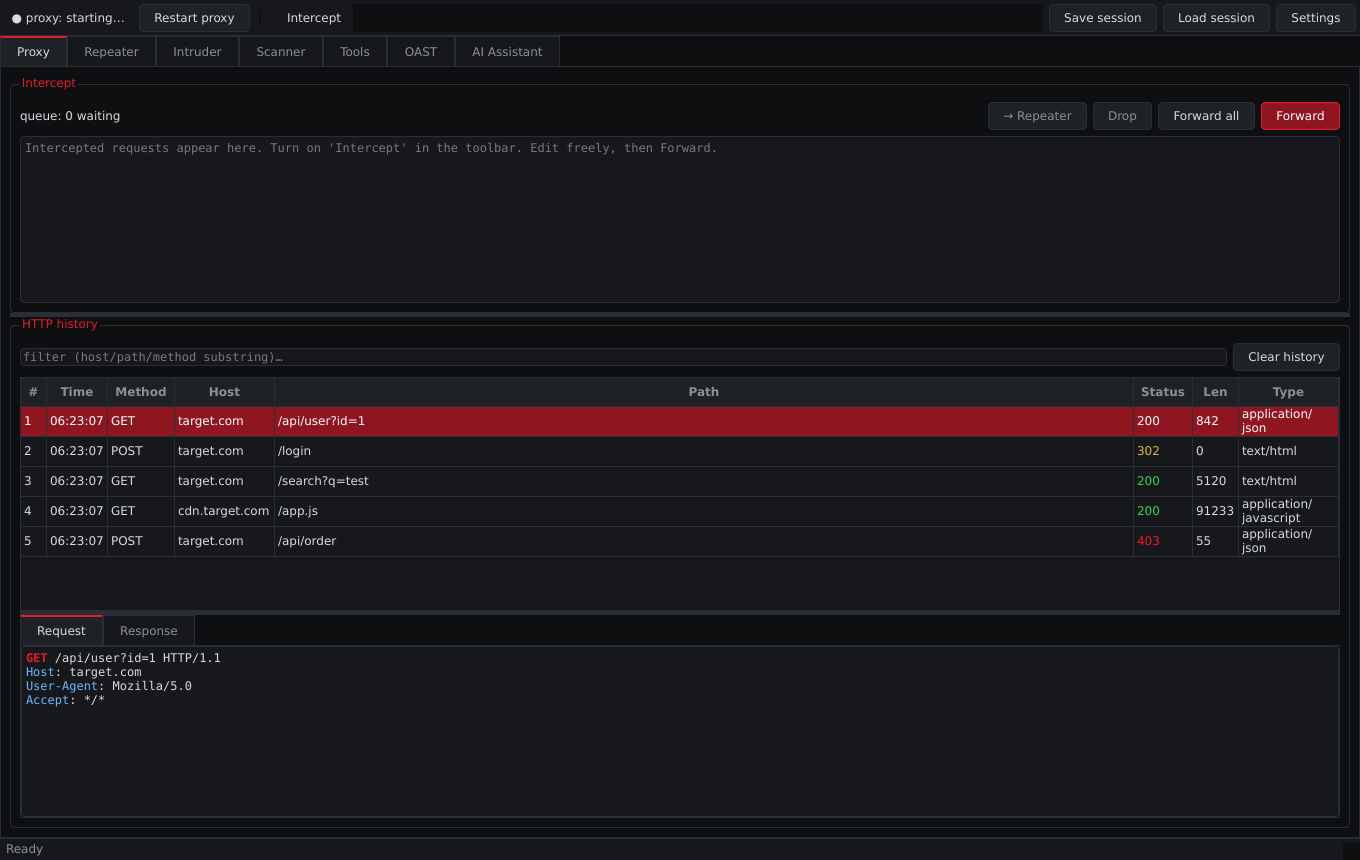
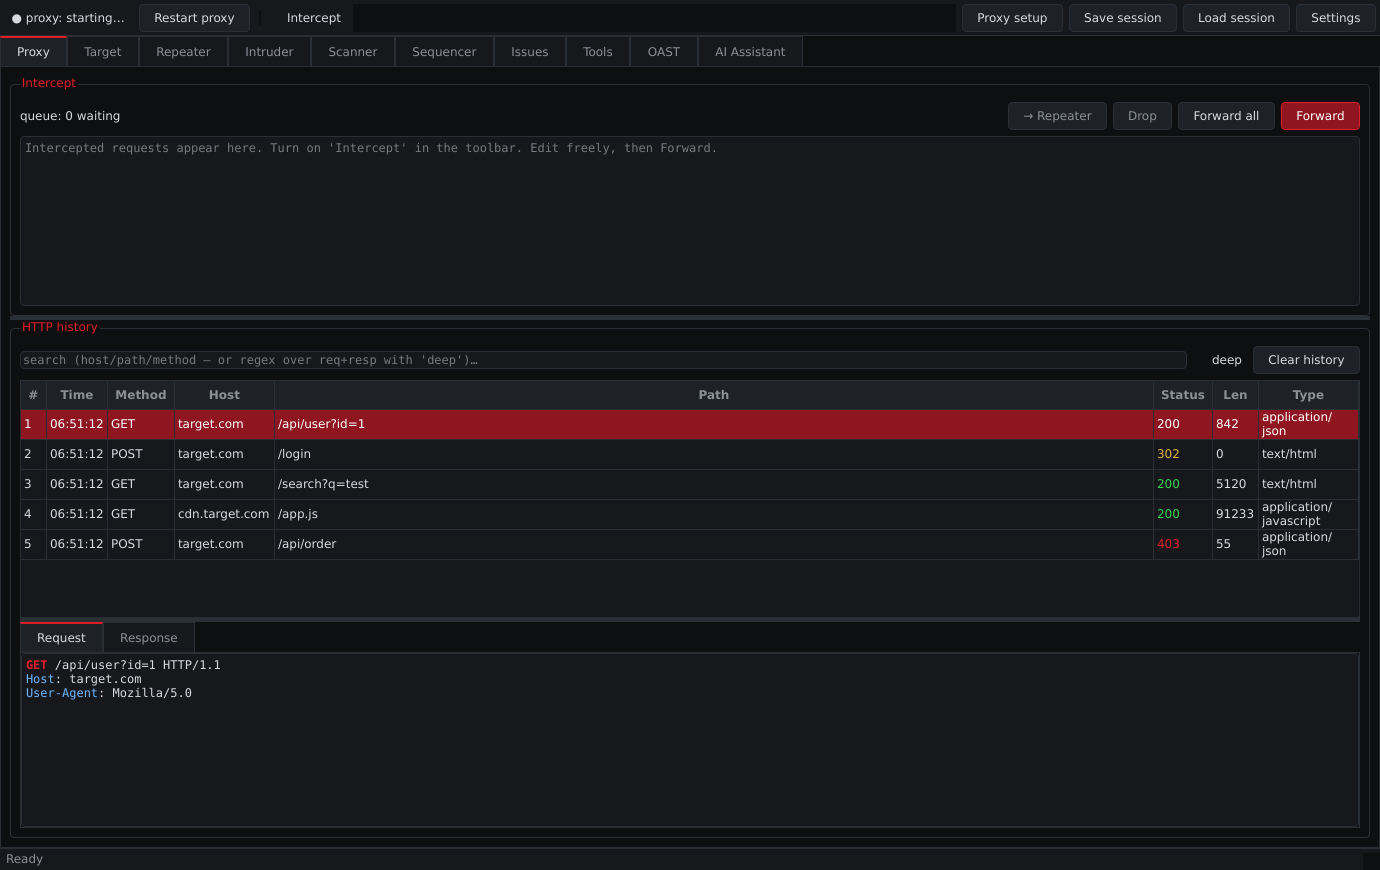
Add CSRF PoC generator, pretty-print, deep regex search; refresh screenshots
- Tools: CSRF PoC generator (auto-submitting form or fetch PoC) + pretty JSON/XML
- HttpEditor: right-click "Pretty-print body" on any viewer
- History: "deep" regex search across full request+response bodies
- History context menu: Send to Sequencer / Generate CSRF PoC
- README: updated screenshots (now showing Target and Issues)

Claude-Session: https://claude.ai/code/session_018vkGKhNKzSodMfcoTfCRvm

diff --git a/r3dproxy/gui/proxy_tab.py b/r3dproxy/gui/proxy_tab.py
@@ -6,7 +6,7 @@ from PySide6.QtGui import QColor, QAction
 from PySide6.QtWidgets import (QWidget, QVBoxLayout, QHBoxLayout, QSplitter,
                                QPushButton, QLabel, QTableWidget, QTableWidgetItem,
                                QHeaderView, QLineEdit, QGroupBox, QMenu, QAbstractItemView,
-                               QTabWidget)
+                               QTabWidget, QCheckBox)
 
 from . import theme
 from .editor import HttpEditor
@@ -120,11 +120,15 @@ class ProxyTab(QWidget):
 
         bar = QHBoxLayout()
         self.filter_edit = QLineEdit()
-        self.filter_edit.setPlaceholderText("filter (host/path/method substring)…")
-        self.filter_edit.textChanged.connect(self.apply_filter)
+        self.filter_edit.setPlaceholderText("search (host/path/method — or regex over req+resp with 'deep')…")
+        self.filter_edit.textChanged.connect(lambda: self.apply_filter())
+        self.deep_search = QCheckBox("deep")
+        self.deep_search.setToolTip("Regex search across full request + response bodies")
+        self.deep_search.toggled.connect(lambda: self.apply_filter())
         clear_btn = QPushButton("Clear history")
         clear_btn.clicked.connect(self.clear_history)
         bar.addWidget(self.filter_edit)
+        bar.addWidget(self.deep_search)
         bar.addWidget(clear_btn)
         v.addLayout(bar)
 
@@ -242,14 +246,29 @@ class ProxyTab(QWidget):
             self.req_view.set_text(rec.request_text)
             self.resp_view.set_text(rec.response_text)
 
-    def apply_filter(self, text):
-        text = (text or "").lower().strip()
+    def apply_filter(self, _=None):
+        import re
+        q = self.filter_edit.text().strip()
+        deep = self.deep_search.isChecked()
+        rx = None
+        if deep and q:
+            try:
+                rx = re.compile(q, re.I)
+            except re.error:
+                rx = None
         for fid, row in self.row_by_fid.items():
             rec = self.ctx.store.get(fid)
             if not rec:
                 continue
-            hay = f"{rec.method} {rec.host} {rec.url}".lower()
-            self.table.setRowHidden(row, bool(text) and text not in hay)
+            if not q:
+                hide = False
+            elif deep:
+                hay = f"{rec.method} {rec.url}\n{rec.request_text}\n{rec.response_text}"
+                hide = (rx.search(hay) is None) if rx else (q.lower() not in hay.lower())
+            else:
+                hay = f"{rec.method} {rec.host} {rec.url}".lower()
+                hide = q.lower() not in hay
+            self.table.setRowHidden(row, hide)
 
     def clear_history(self):
         self.table.setRowCount(0)
@@ -284,6 +303,7 @@ class ProxyTab(QWidget):
         a_scan = menu.addAction("Send to Scanner")
         a_seq = menu.addAction("Send to Sequencer")
         a_ai = menu.addAction("Send to AI Assistant")
+        a_csrf = menu.addAction("Generate CSRF PoC")
         menu.addSeparator()
         a_copyurl = menu.addAction("Copy URL")
         act = menu.exec(self.table.viewport().mapToGlobal(pos))
@@ -295,6 +315,8 @@ class ProxyTab(QWidget):
             self.main.send_to_scanner(rec)
         elif act == a_seq:
             self.main.send_to_sequencer(rec)
+        elif act == a_csrf:
+            self.main.send_to_csrf(rec)
         elif act == a_ai:
             self.main.send_to_ai(rec.request_text, rec.response_text)
         elif act == a_copyurl:

diff --git a/r3dproxy/gui/tools_tab.py b/r3dproxy/gui/tools_tab.py
@@ -79,6 +79,54 @@ class ComparerWidget(QWidget):
         self.result.setHtml(header + "<br>".join(html))
 
 
+class CSRFWidget(QWidget):
+    def __init__(self):
+        super().__init__()
+        v = QVBoxLayout(self)
+        v.addWidget(QLabel("Paste a request; set the full URL; generate an HTML CSRF PoC."))
+        from PySide6.QtWidgets import QLineEdit
+        self.url = QLineEdit(); self.url.setPlaceholderText("https://target.com/path  (full URL the request hits)")
+        v.addWidget(self.url)
+        split = QSplitter(Qt.Horizontal)
+        self.req = HttpEditor(read_only=False)
+        self.out = HttpEditor(read_only=True)
+        split.addWidget(self.req); split.addWidget(self.out)
+        v.addWidget(split, 1)
+        bar = QHBoxLayout()
+        gen = QPushButton("Generate PoC"); gen.setObjectName("accent"); gen.clicked.connect(self.generate)
+        save = QPushButton("Save…"); save.clicked.connect(self.save)
+        bar.addStretch(1); bar.addWidget(save); bar.addWidget(gen)
+        v.addLayout(bar)
+
+    def load(self, request_text, url):
+        self.req.set_text(request_text); self.url.setText(url)
+
+    def generate(self):
+        from ..core import csrf
+        url = self.url.text().strip()
+        if not url:
+            # try to derive from Host header
+            from ..core.httptext import split_message
+            s, headers, _ = split_message(self.req.text())
+            host = next((v for k, v in headers if k.lower() == "host"), "")
+            target = s.split(" ")[1] if len(s.split(" ")) > 1 else "/"
+            url = f"https://{host}{target}" if host else target
+            self.url.setText(url)
+        self.out.set_text(csrf.build_poc(self.req.text(), url))
+
+    def save(self):
+        from PySide6.QtWidgets import QFileDialog
+        if not self.out.text().strip():
+            return
+        dest, _ = QFileDialog.getSaveFileName(self, "Save CSRF PoC", "csrf-poc.html", "HTML (*.html)")
+        if dest:
+            try:
+                with open(dest, "w", encoding="utf-8") as f:
+                    f.write(self.out.text())
+            except Exception:
+                pass
+
+
 class ToolsTab(QWidget):
     def __init__(self, ctx, main):
         super().__init__()
@@ -88,6 +136,8 @@ class ToolsTab(QWidget):
         inner = QTabWidget()
         self.decoder = DecoderWidget()
         self.comparer = ComparerWidget()
+        self.csrf = CSRFWidget()
         inner.addTab(self.decoder, "Decoder / Encoder")
         inner.addTab(self.comparer, "Comparer")
+        inner.addTab(self.csrf, "CSRF PoC")
         v.addWidget(inner)

diff --git a/r3dproxy/core/csrf.py b/r3dproxy/core/csrf.py
@@ -1,0 +1,80 @@
+"""Generate a CSRF proof-of-concept HTML page from a request."""
+from __future__ import annotations
+import html
+from urllib.parse import urlparse, parse_qsl
+
+from . import httptext
+
+
+def _esc(s: str) -> str:
+    return html.escape(s, quote=True)
+
+
+def build_poc(request_text: str, url: str) -> str:
+    """Build a self-submitting CSRF PoC for the given request.
+
+    - urlencoded / GET  -> an auto-submitting HTML form
+    - JSON / other      -> a fetch()-based PoC (note: subject to CORS/preflight)
+    """
+    start, headers, body = httptext.split_message(request_text)
+    parts = start.split(" ")
+    method = (parts[0] if parts else "GET").upper()
+    ctype = ""
+    for k, v in headers:
+        if k.lower() == "content-type":
+            ctype = v.lower()
+            break
+
+    if method == "GET":
+        q = parse_qsl(urlparse(url).query, keep_blank_values=True)
+        return _form_poc(url.split("?")[0], "GET", q)
+
+    if "application/x-www-form-urlencoded" in ctype or (body and "=" in body and "{" not in body):
+        fields = parse_qsl(body, keep_blank_values=True)
+        return _form_poc(url, "POST", fields)
+
+    # JSON / raw body -> fetch PoC
+    return _fetch_poc(method, url, ctype or "text/plain", body)
+
+
+def _form_poc(action, method, fields):
+    inputs = "\n".join(
+        f'    <input type="hidden" name="{_esc(k)}" value="{_esc(v)}">'
+        for k, v in fields)
+    return f"""<!DOCTYPE html>
+<html>
+  <!-- r3dProxy CSRF PoC — for authorized testing only -->
+  <body onload="document.forms[0].submit()">
+    <form action="{_esc(action)}" method="{method}">
+{inputs}
+    </form>
+  </body>
+</html>
+"""
+
+
+def _fetch_poc(method, url, ctype, body):
+    body_js = body.replace("\\", "\\\\").replace("`", "\\`")
+    return f"""<!DOCTYPE html>
+<html>
+  <!-- r3dProxy CSRF PoC (fetch) — for authorized testing only.
+       Note: cross-origin JSON requests are subject to CORS/preflight;
+       this works where the endpoint allows it (e.g. simple requests
+       or permissive CORS). -->
+  <body>
+    <script>
+      fetch({_js(url)}, {{
+        method: {_js(method)},
+        headers: {{ "Content-Type": {_js(ctype)} }},
+        body: `{body_js}`,
+        credentials: "include",
+        mode: "cors"
+      }});
+    </script>
+  </body>
+</html>
+"""
+
+
+def _js(s: str) -> str:
+    return '"' + (s or "").replace("\\", "\\\\").replace('"', '\\"') + '"'

diff --git a/r3dproxy/core/codec.py b/r3dproxy/core/codec.py
@@ -71,6 +71,40 @@ def jwt_decode(s: str) -> str:
     return "\n\n".join(out)
 
 
+def pretty_json(s: str) -> str:
+    try:
+        return json.dumps(json.loads(s), indent=2, ensure_ascii=False)
+    except Exception as e:
+        return f"[not valid JSON: {e}]"
+
+
+def pretty_xml(s: str) -> str:
+    import xml.dom.minidom as minidom
+    try:
+        return minidom.parseString(s.strip()).toprettyxml(indent="  ").strip()
+    except Exception as e:
+        return f"[not valid XML: {e}]"
+
+
+def pretty_auto(text: str) -> str:
+    """Pretty-print JSON or XML, auto-detected. Falls back to the input."""
+    t = (text or "").strip()
+    if not t:
+        return text
+    if t[0] in "{[":
+        try:
+            return json.dumps(json.loads(t), indent=2, ensure_ascii=False)
+        except Exception:
+            pass
+    if t.startswith("<"):
+        try:
+            import xml.dom.minidom as minidom
+            return minidom.parseString(t).toprettyxml(indent="  ").strip()
+        except Exception:
+            pass
+    return text
+
+
 OPERATIONS = {
     "URL encode": url_encode,
     "URL decode": url_decode,
@@ -81,6 +115,8 @@ OPERATIONS = {
     "HTML encode": html_encode,
     "HTML decode": html_decode,
     "JWT decode": jwt_decode,
+    "Pretty JSON": pretty_json,
+    "Pretty XML": pretty_xml,
 }
 
 

diff --git a/r3dproxy/gui/editor.py b/r3dproxy/gui/editor.py
@@ -55,3 +55,27 @@ class HttpEditor(QPlainTextEdit):
 
     def text(self) -> str:
         return self.toPlainText()
+
+    def contextMenuEvent(self, event):
+        menu = self.createStandardContextMenu()
+        menu.addSeparator()
+        act = menu.addAction("Pretty-print body")
+        act.triggered.connect(self._pretty_body)
+        menu.exec(event.globalPos())
+
+    def _pretty_body(self):
+        from ..core import codec
+        text = self.toPlainText()
+        sep = "\r\n\r\n" if "\r\n\r\n" in text else ("\n\n" if "\n\n" in text else None)
+        if sep:
+            head, body = text.split(sep, 1)
+            pretty = codec.pretty_auto(body)
+            new = head + sep + pretty
+        else:
+            new = codec.pretty_auto(text)
+        ro = self.isReadOnly()
+        if ro:
+            self.setReadOnly(False)
+        self.setPlainText(new)
+        if ro:
+            self.setReadOnly(True)

diff --git a/r3dproxy/gui/main_window.py b/r3dproxy/gui/main_window.py
@@ -226,6 +226,10 @@ class MainWindow(QMainWindow):
         self.sequencer_tab.load(rec.request_text, tgt)
         self.tabs.setCurrentWidget(self.sequencer_tab)
 
+    def send_to_csrf(self, rec):
+        self.tools_tab.csrf.load(rec.request_text, rec.url)
+        self.tabs.setCurrentWidget(self.tools_tab)
+
     def send_to_ai(self, req_text, resp_text):
         self.ai_tab.load(req_text, resp_text)
         self.tabs.setCurrentWidget(self.ai_tab)

diff --git a/README.md b/README.md
@@ -20,8 +20,9 @@ input or payload gets rejected.
 - **Intercepting proxy** (HTTP + HTTPS via an auto-generated CA).
 - **Intercept queue** — pause requests, edit them freely, then Forward / Drop /
   Forward-all.
-- **HTTP history** — searchable table with request/response viewers, colored
-  status codes, right-click → send to Repeater / Intruder / Scanner / AI.
+- **HTTP history** — searchable table (plus **deep** regex search across full
+  request+response bodies) with request/response viewers, colored status codes,
+  right-click → send to Repeater / Intruder / Scanner / Sequencer / AI / CSRF PoC.
 - **Repeater** — multi-tab; edit a request and resend it, inspect the response,
   one click to the AI assistant. Optional **raw-socket** mode.
 - **Intruder** — four attack types (sniper, battering ram, pitchfork, cluster
@@ -47,8 +48,10 @@ input or payload gets rejected.
 - **Sequencer** — estimate token randomness (session IDs, CSRF/reset tokens):
   paste tokens or capture one from repeated requests, and get per-position
   entropy, duplicate/sequence detection and a plain verdict.
-- **Tools** — Decoder/Encoder (URL, Base64, Hex, HTML, JWT) and a response
-  **Comparer** (coloured line diff).
+- **Tools** — Decoder/Encoder (URL, Base64, Hex, HTML, JWT, pretty JSON/XML), a
+  response **Comparer** (coloured line diff), and a **CSRF PoC generator**
+  (auto-submitting form or fetch PoC from any request). Right-click any editor →
+  *Pretty-print body*.
 - **OAST** — built-in out-of-band callback listener with token URLs to confirm
   blind SSRF/XXE/RCE; set a public base URL (VPS / interactsh) for internet
   callbacks. The Scanner uses it automatically (*use OAST*) to upgrade blind
@@ -76,6 +79,10 @@ input or payload gets rejected.
 | AI assistant | Intruder |
 |---|---|
 | ![AI assistant](docs/img/03-ai.png) | ![Intruder](docs/img/04-intruder.png) |
+
+| Target site map | Passive issues |
+|---|---|
+| ![Target site map](docs/img/05-target.png) | ![Issues](docs/img/06-issues.png) |
 
 ## Scanner — OWASP plugins
 
